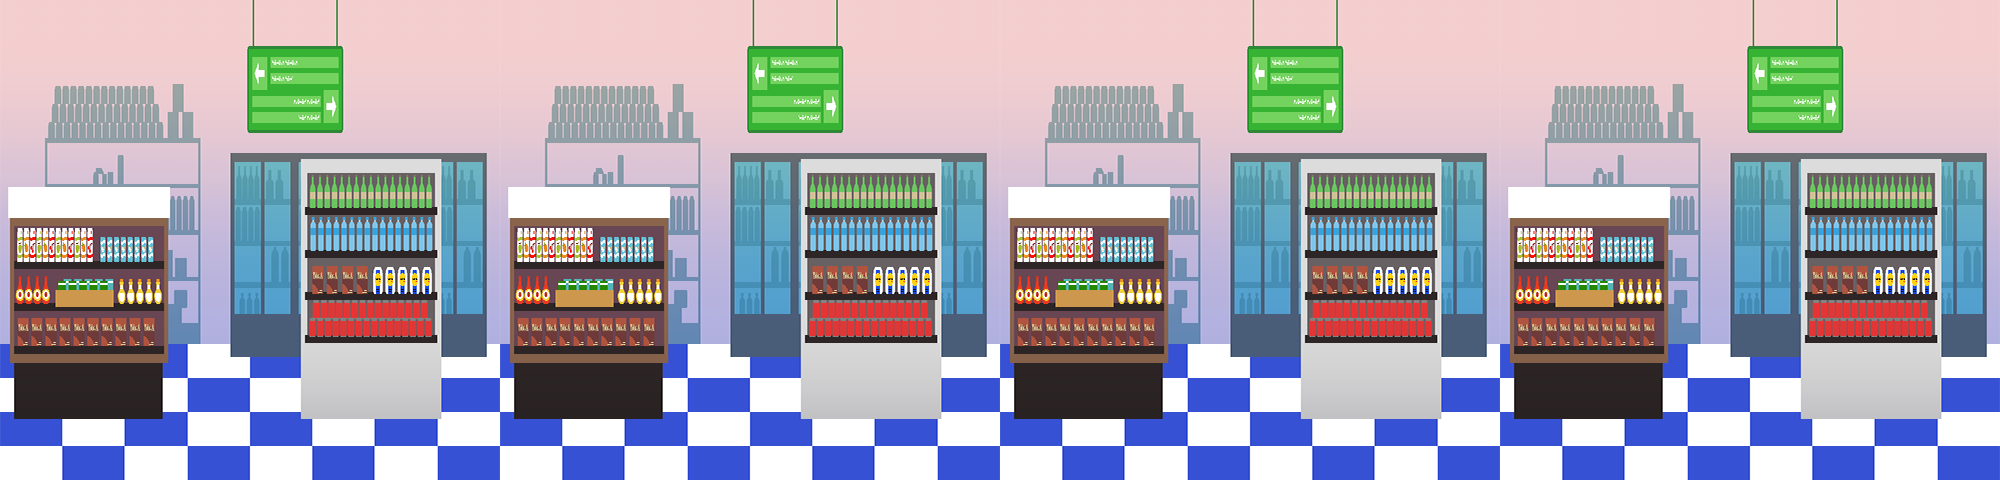
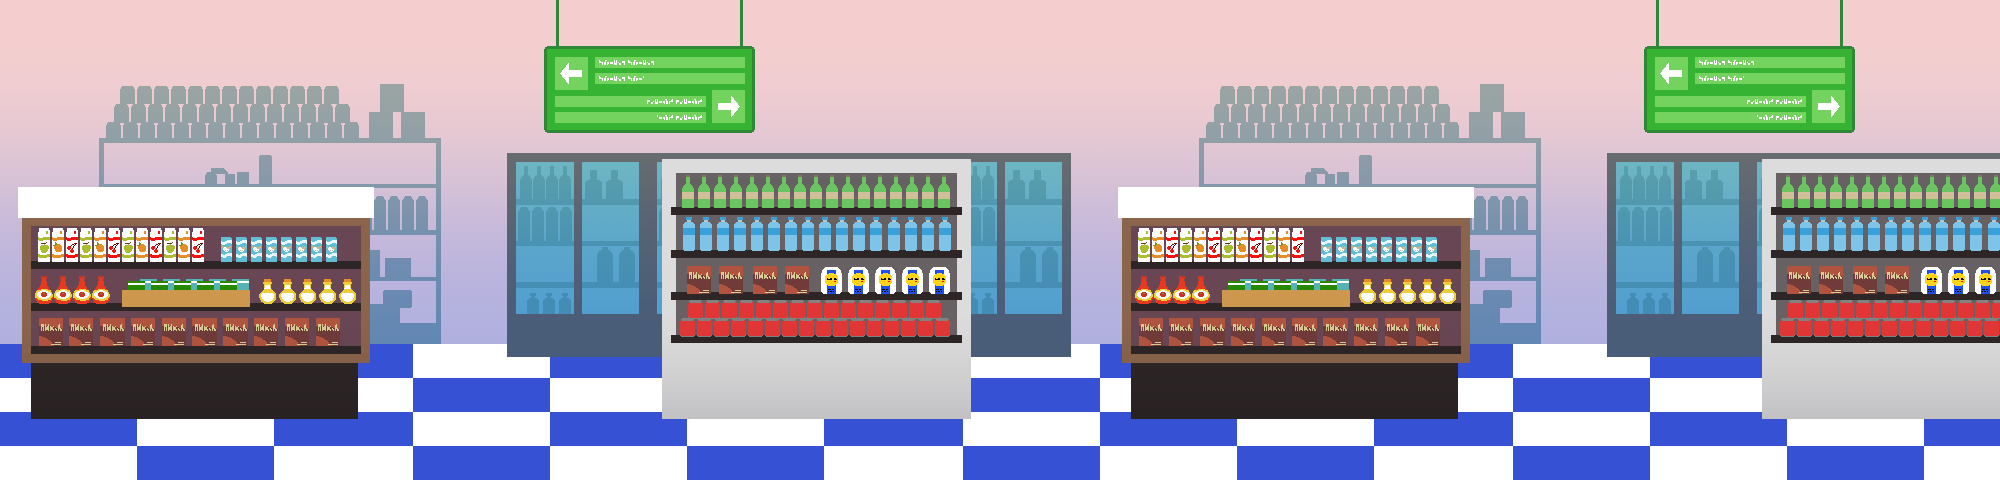
Fixed rendering of Background so that the quality of src img is preserved

diff --git a/TPP2/GameEngine.cpp b/TPP2/GameEngine.cpp
@@ -235,14 +235,14 @@ void GameEngine::Init(const int w, const int h){
     renderer = SDL_CreateRenderer(window, -1, 0);
 
     /* ---------------- BACKGROUND ------------------- */
-    int spriteFrameWidth = 2000;//Background change
-    int spriteFrameHeight = 480;//Background change
-    Background temp(renderer, "img/background.png",0, 0, spriteFrameWidth, spriteFrameHeight,&camera);//Background change
+    int bg_srcW = 2000;//Background change
+    int bg_srcH = 480;//Background change
+    Background temp(renderer, "img/background.png", 0, 0, bg_srcW, bg_srcH, screenW, screenH, &camera);//Background change
     GameBG = temp;//Background change
 
-    spriteFrameWidth = 2000;//Background change
-    spriteFrameHeight = 480;//Background change
-    Background temp2(renderer, "img/background.png",0, 0, spriteFrameWidth, spriteFrameHeight,&camera);//Background change
+    bg_srcW = 2000;//Background change
+    bg_srcH = 480;//Background change
+    Background temp2(renderer, "img/background.png", 0, 0, bg_srcW, bg_srcH, screenW, screenH, &camera);//Background change
     TitleBG = temp2;//Background change
 
     //Initialize Game Objects
@@ -543,14 +543,14 @@ void GameEngine::Render(){
 
             howtoplay_img->Render();
         } else{
-            SDL_SetRenderDrawColor(renderer, 255, 255, 255, 255);
-            SDL_SetRenderDrawBlendMode(renderer, SDL_BLENDMODE_BLEND);
-            SDL_RenderFillRect(renderer, &fullScreenRect);
-
             setCameraX(0);//background change
             setCameraY(0);//background change
             TitleBG.render();
 
+            SDL_SetRenderDrawColor(renderer, 255, 255, 255, 100);
+            SDL_SetRenderDrawBlendMode(renderer, SDL_BLENDMODE_BLEND);
+            SDL_RenderFillRect(renderer, &fullScreenRect);
+            
             main_title_sprite->Render();
             selection_controlsB->Render();
             titleMenuOptions->Render();

diff --git a/TPP2/Background.cpp b/TPP2/Background.cpp
@@ -1,11 +1,10 @@
 
 #include "Background.h"
 
-
 Background::Background(){}
 Background::~Background(){};
-Background::Background(SDL_Renderer *render, const char *file,int x, int y, int w, int h,SDL_Rect* camera){
-    renderer=render;
+Background::Background(SDL_Renderer *render, const char *file, int x, int y, int w, int h, int window_w, int window_h, SDL_Rect* camera){
+    renderer = render;
     SDL_Surface *surface = IMG_Load(file);
     texture = SDL_CreateTextureFromSurface(renderer, surface);
     SDL_FreeSurface(surface);
@@ -39,5 +38,5 @@ void Background::moveScreenX(SDL_Rect x){
 }
 
 void Background::render(){
-    SDL_RenderCopyEx(renderer,texture,screen_rect,&BG_rect,0.0,NULL,SDL_FLIP_NONE);
+    SDL_RenderCopyEx(renderer, texture, screen_rect, window, 0.0 , NULL,SDL_FLIP_NONE);
 }

diff --git a/TPP2/Background.h b/TPP2/Background.h
@@ -10,13 +10,14 @@ class Background{
     SDL_Texture* texture;
     SDL_Rect BG_rect;
     SDL_Rect* screen_rect;
+    SDL_Rect* window;
     const char *bgfile;
 
   public:
     Background();
     ~Background();
 
-    Background(SDL_Renderer *render, const char *file,int x, int y, int w, int h,SDL_Rect*);
+    Background(SDL_Renderer *render, const char *file,int x, int y, int w, int h, int window_w, int window_h, SDL_Rect* camera);
 
     int getMapWidth();
     int getMapHeight();
